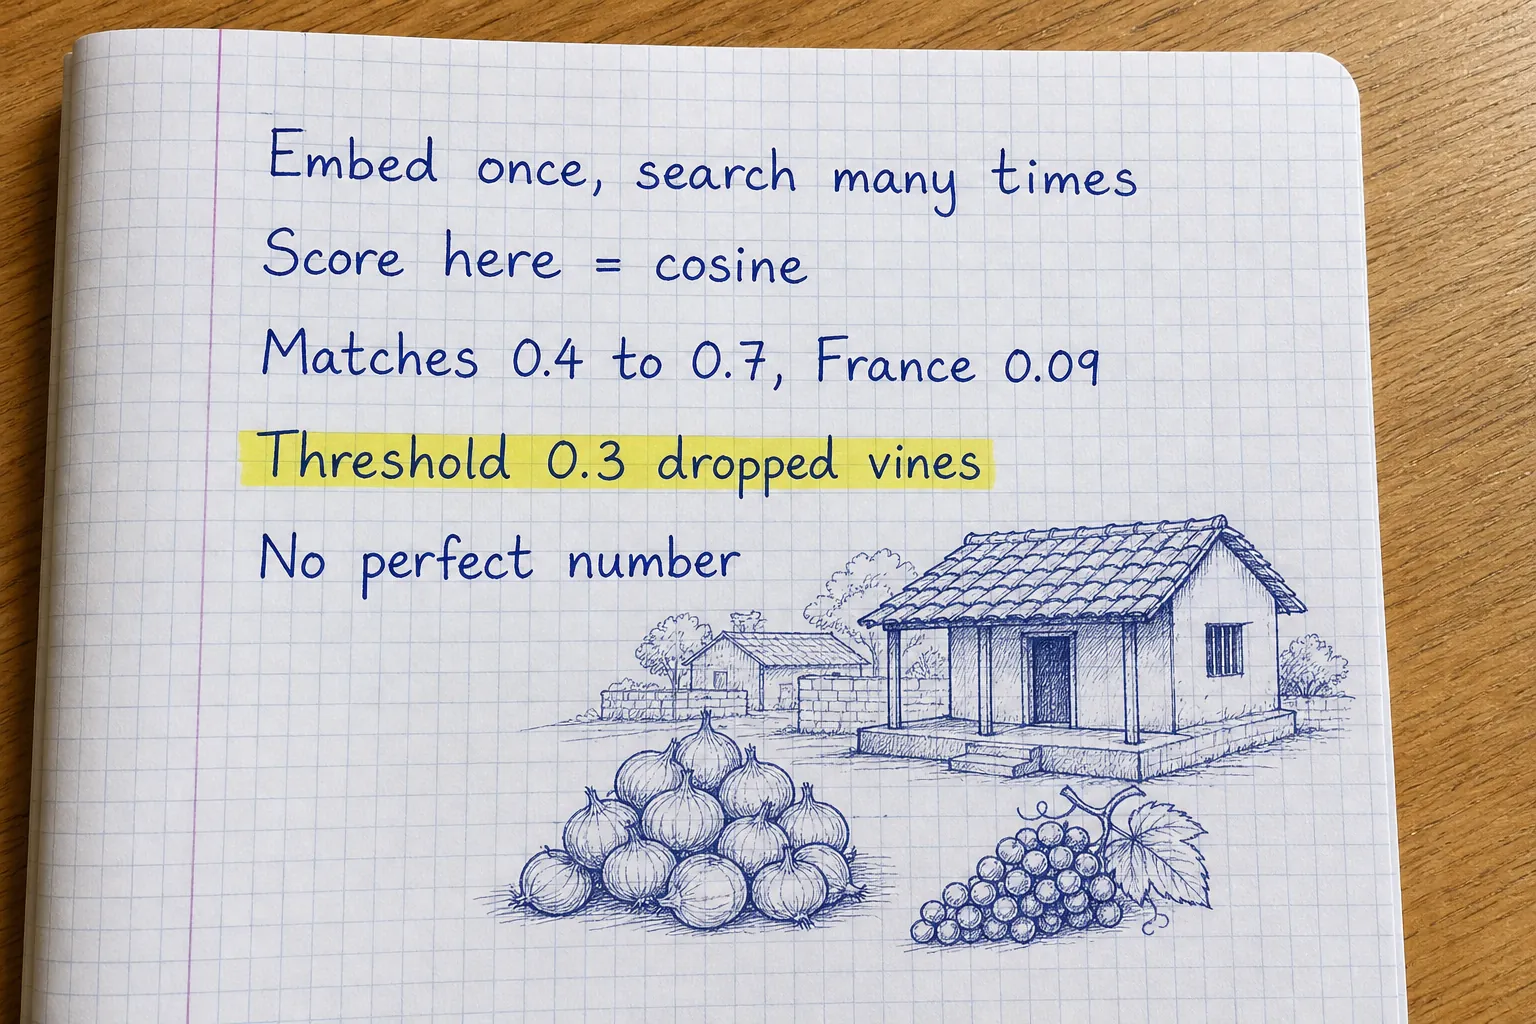
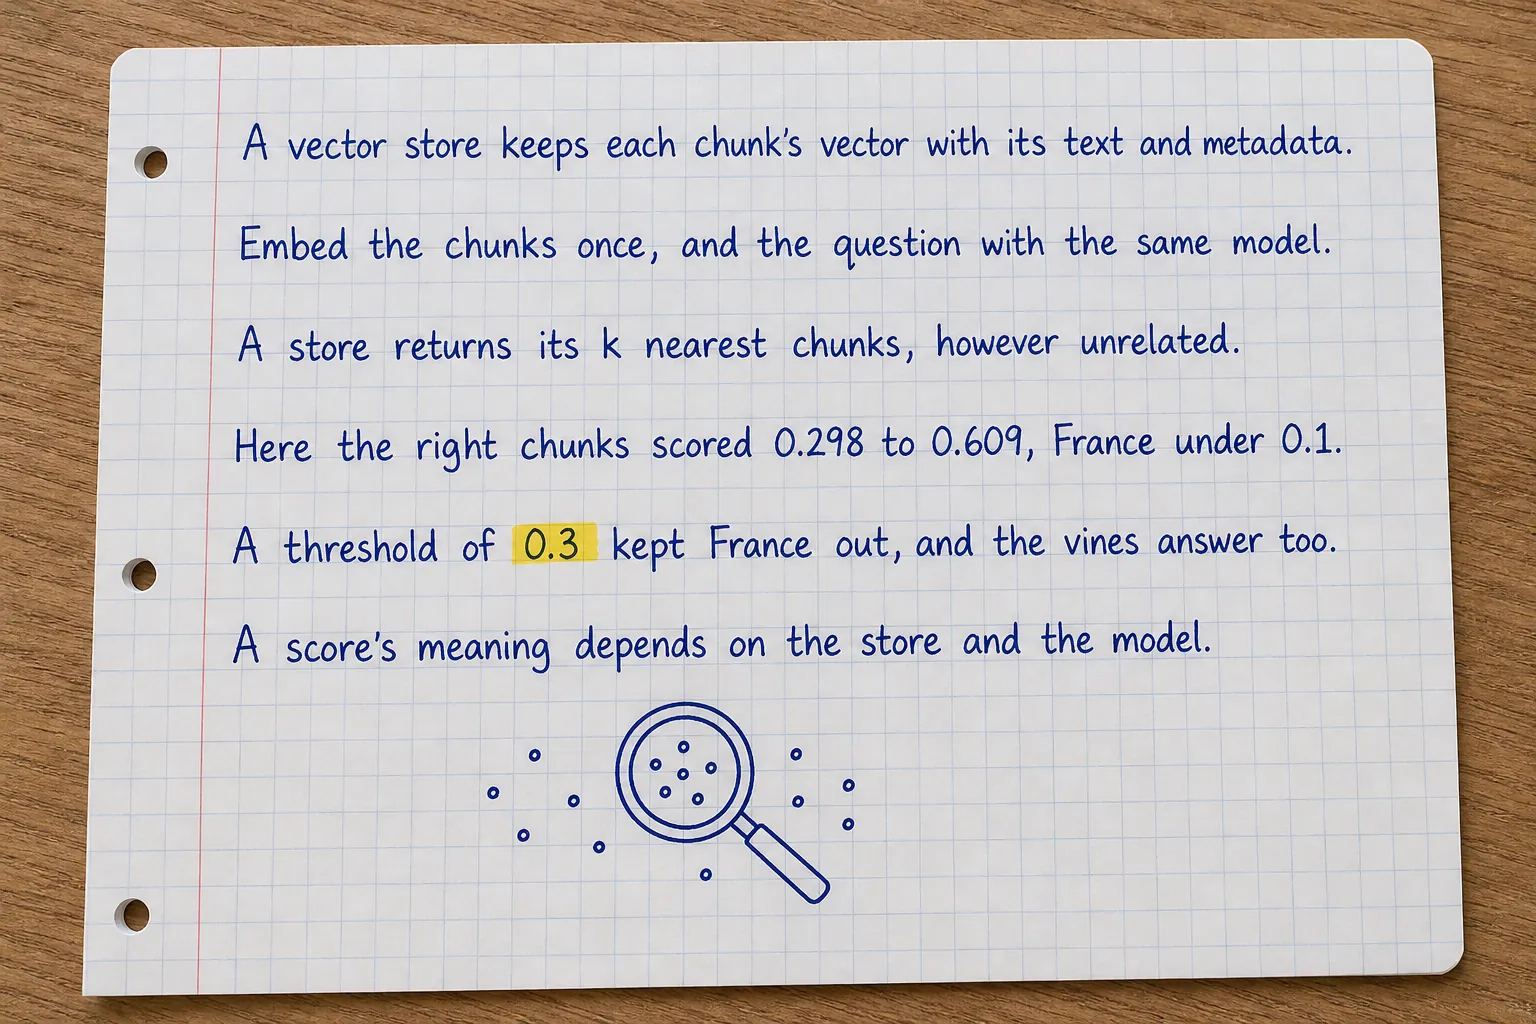
LangChain chapter 18 rewritten: plain and fuller, scores rechecked live, the score range corrected

diff --git a/labs/langchain/chapters/18-vector-stores.md b/labs/langchain/chapters/18-vector-stores.md
@@ -3,7 +3,8 @@ Chapter 3 compared a question with five FAQ vectors, made in advance. The rule b
 hundreds next year. Each chunk must be embedded once (that is a model call, and costs a little), stored with its text
 and metadata, and then searched in milliseconds for every question a member asks.
 
-That is what a **vector store** does. LangChain has one interface for dozens of them, from `InMemoryVectorStore` (in
+That is what a **vector store** does: it keeps each chunk's vector next to its text and metadata, and finds the
+vectors closest to a question's. LangChain has one interface for dozens of them, from `InMemoryVectorStore` (in
 your Python process, perfect for learning) to PostgreSQL with pgvector, Elasticsearch, Redis or Pinecone in production.
 
 :::mission
@@ -30,6 +31,9 @@ same model and compares it with every stored vector; that is why the same embedd
 
 :::step{type=task task=store_chunks title="Your turn: embed and store the chunks" file="18-vector-stores/store.py" line="9-12"}
 Finish `build_store(chunks)`: return `InMemoryVectorStore.from_documents(chunks, OpenAIEmbeddings(model="ai-embed"))`.
+
+The usual slip: `InMemoryVectorStore(chunks)`. The constructor takes the embeddings, not the documents;
+`from_documents` builds the store and adds the chunks in one go.
 
 Press **Check**.
 :::
@@ -62,21 +66,26 @@ exhaustive search would find.
 `InMemoryVectorStore` the score is the plain **cosine similarity** of chapter 3. (Other stores use other scales: some
 rescale to 0 to 1, some return distances where smaller is better. Always check.)
 
-The store always returns k results, however unrelated. Here are real scores for this rule book, with no threshold:
+The store returns its k nearest chunks (if it holds that many), however unrelated. Here are real scores for this rule book, with no threshold:
 
 | Question | Best three |
 |---|---|
 | Can I store 80 crates of onions? | 0.609, 0.531, 0.346 (all storage.txt) |
 | What is the capital of France? | 0.089, 0.064, 0.063 |
 
-Real matches score about 0.4 to 0.7 here; the France question, which no rule answers, scores under 0.1. A
+With this embedding model and this rule book, the right chunks scored from 0.298 (the vines question below) to
+0.609, and the France question, which no rule answers, scored under 0.1. A
 **minimum score** turns "the least bad match" into "no match". This chapter uses 0.3, chosen from those numbers, and
 the next step shows what that choice costs.
 :::
 
 :::step{type=task task=search_threshold title="Your turn: search with a threshold" file="18-vector-stores/store.py" line="15-19"}
-Finish `search(store, question, k, min_score)`: call `store.similarity_search_with_score(question, k=k)` and return only
-the `(document, score)` pairs whose score is at least `min_score`.
+Finish `search(store, question, k, min_score)`:
+
+1. `results = store.similarity_search_with_score(question, k=k)`: a list of `(document, score)` pairs, best first.
+2. Return only the pairs whose score is at least `min_score` (`>=`).
+
+The usual slip: `>` instead of `>=`, which drops a chunk scoring exactly the threshold.
 
 ```bash run
 cd /workspace/18-vector-stores && python main.py
@@ -86,6 +95,8 @@ Press **Check**.
 :::
 
 :::step{type=try title="The threshold keeps France out, and one good answer too"}
+A real run (embeddings have no randomness at this level: we got exactly these scores again on 25 November):
+
 ```text
 $ python main.py
 Can I store 80 crates of onions?
@@ -170,7 +181,7 @@ You can now:
 
 Next, chapter 19: retrieval-augmented generation. Navin searches the rule book, then answers from what it found.
 
-:::photo{src="/lesson-images/langchain/lc-18-notes.webp" alt="Handwritten notes about vector stores: Embed once, search many times; Score here = cosine; Matches 0.4 to 0.7, France 0.09; Threshold 0.3 dropped vines; No perfect number" ai="true"}
+:::photo{src="/lesson-images/langchain/lc-18-notes.webp" alt="Handwritten notes about vector stores: A vector store keeps each chunk's vector with its text and metadata. Embed the chunks once, and the question with the same model. A store returns its k nearest chunks, however unrelated. Here the right chunks scored 0.298 to 0.609, France under 0.1. A threshold of 0.3 kept France out, and the vines answer too. A score's meaning depends on the store and the model." ai="true"}
 One page of notes for this chapter.
 :::
 :::

diff --git a/CHANGELOG.md b/CHANGELOG.md
@@ -1,5 +1,13 @@
 # Changelog
 
+## 25 November: LangChain chapter 18 rewritten (easy, a little detailed, checked)
+
+- Vector store is explained where it first appears; both tasks list their steps and the usual slips.
+- Checked through the lab gateway: every score word for word, 1,536-number vectors, and 9 embedding calls for one run
+  (one batch for the chunks, eight for the questions). Corrected: "real matches score about 0.4 to 0.7" became the
+  measured range (0.298 to 0.609, labelled as this model and rule book); "a store always returns k results" now says
+  "its k nearest (if it holds that many)". A new notes page.
+
 ## 25 November: LangChain chapter 17 rewritten (easy, a little detailed, checked)
 
 - Both tasks list their steps and the usual slips (the whole path as the source; split_text losing the metadata).

diff --git a/REWRITE_LIST.md b/REWRITE_LIST.md
@@ -11,7 +11,7 @@ Status: **1 of 23 labs done** (13 of 319 chapters).
 | # | Lab | Title | Chapters | Status | Done on |
 |---|---|---|---|---|---|
 | 1 | rag-vector-databases | RAG and vector databases | 13 | done (13 of 13) | 25 Nov |
-| 2 | langchain | LangChain | 27 | in progress (17 of 27) | |
+| 2 | langchain | LangChain | 27 | in progress (18 of 27) | |
 | 3 | langchain4j | LangChain4j | 30 | not started | |
 | 4 | langgraph | LangGraph | 24 | not started | |
 | 5 | spring-ai | Spring AI | 20 | not started | |
